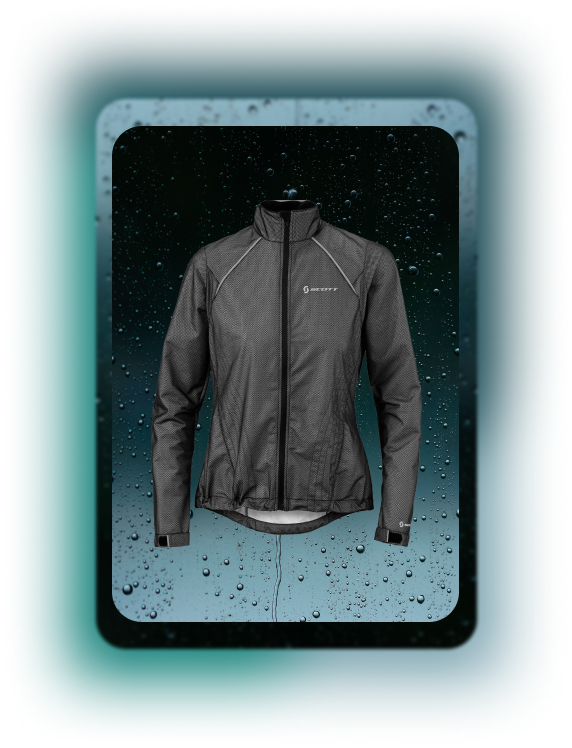
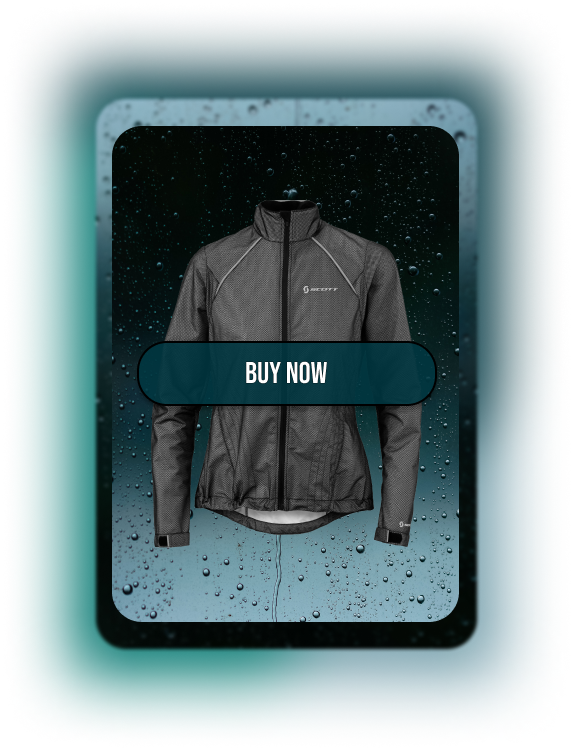
homepage done

Changed region(s): [[0.2378, 0.4305, 0.7727, 0.5535]]

diff --git a/index.html b/index.html
@@ -27,7 +27,7 @@
                 <p>Rainydays attaches great importance to durability and suitability for varying weather conditions, ensuring that our customers are comfortable on every adventure.</p>
             </div>
             <div>
-                <img src="/images/Hero-Gallery.png" alt="jackets in the forest" class="hero">
+                <a href="collection.html"><img src="/images/Hero-Gallery.png" alt="upcoming release of jackets in the forest" class="hero"></a>
             </div>
         </div>
         </section>
@@ -35,23 +35,23 @@
                 <h2>WHY CHOSE US?</h2>
                 <P>Our raincoats are made from waterproof and breathable fabrics such as Gore-Tex, Tyvek, and DWR-coated nylon. These fabrics and allow water vapor to pass through, allowing the garment to "breathe" and wick away the wearer`s perspiration. We ofcourse also have non-breathable raincoats spesialized for mist.</P>
             </div>
-            <div class="homepage_raincoat">
-                <img src="/images/Front page.png" alt="Main Raincoat"/>
+            <div class="homepage-raincoat">
+                <a href="product.html"><img src="/images/Front page.png" alt="Main Raincoat" class="FP-img"/></a>
             </div>
             <div class="home-info-2">
-                <p>Our products are designed to move as naturally as possible by mimicking the shape of the human body. This has a significant impact on safety, comfort, and performance.</p>
-                <p>The shoulders, back, and elbows interact with each other. Tightening due to lack of range of motion can affect harness functionality, limit reach, and expose you to cold.</p>
-                <p>Our collection works together to give you freedom of movement without adding unnecessary materials. This streamlined fit has become a signature of the Rainydays brand.</p>
+                <p>Our products are designed to move as naturally as possible by mimicking the shape of the human body. This has a significant impact on safety, comfort, and performance.
+                The shoulders, back, and elbows interact with each other. Tightening due to lack of range of motion can affect harness functionality, limit reach, and expose you to cold.
+                Our collection works together to give you freedom of movement without adding unnecessary materials. This streamlined fit has become a signature of the Rainydays brand.</p>
             </div>
         </section>
     </main>
     <footer>
-        <div class="below">
-            <ul class="icons">
+        <div>
+            <a href="product.html"><ul class="icons">
                 <p>FIND A RAINYDAYS STORE</p>
                 <p>BE THE FIRST TO KNOW</p>
                 <p>CUSTOMER SUPPORT CENTRE</p>
-            </ul>
+            </ul></a>
         </div>
     </footer>
 </body>

diff --git a/css/styles.css b/css/styles.css
@@ -12,12 +12,13 @@ body {
 .logo{
     width: 90px;
     cursor: pointer;
+    margin-left: 50px;
 }
 
 .menu_icon {
     width: 30px;
     cursor: pointer;
-    margin-left: 40px;
+    margin-left: 100px;
 }
 
 nav {
@@ -63,31 +64,37 @@ nav ul li a {
     text-align: center;
 }
 
+.homepage-raincoat {
+    display: flex;
+    justify-content: center;
 
+}
 
+.FP-img:hover {
+    transform: translateY(-30px);
+    transition: 0.7s;
+}
 
-
-
-
-
-
-
-
-
-
-
-
-
-
-
-
-
+.home-info-2 p {
+    font-size: 25px;
+    text-align: center;
+    margin-bottom: 100px;
+}
 
 .icons {
-    background-color: teal;
-    border-radius: 195px;
+    background-color: #1c4c55;
+    border-radius: 15px;
     padding: 15px;
     display: flex;
     justify-content: space-evenly;
 }
 
+.icons p {
+    background-color: #e6e6e6;
+    padding: 15px;
+    border-radius: 10px;
+}
+
+a {
+    color: black;
+}
